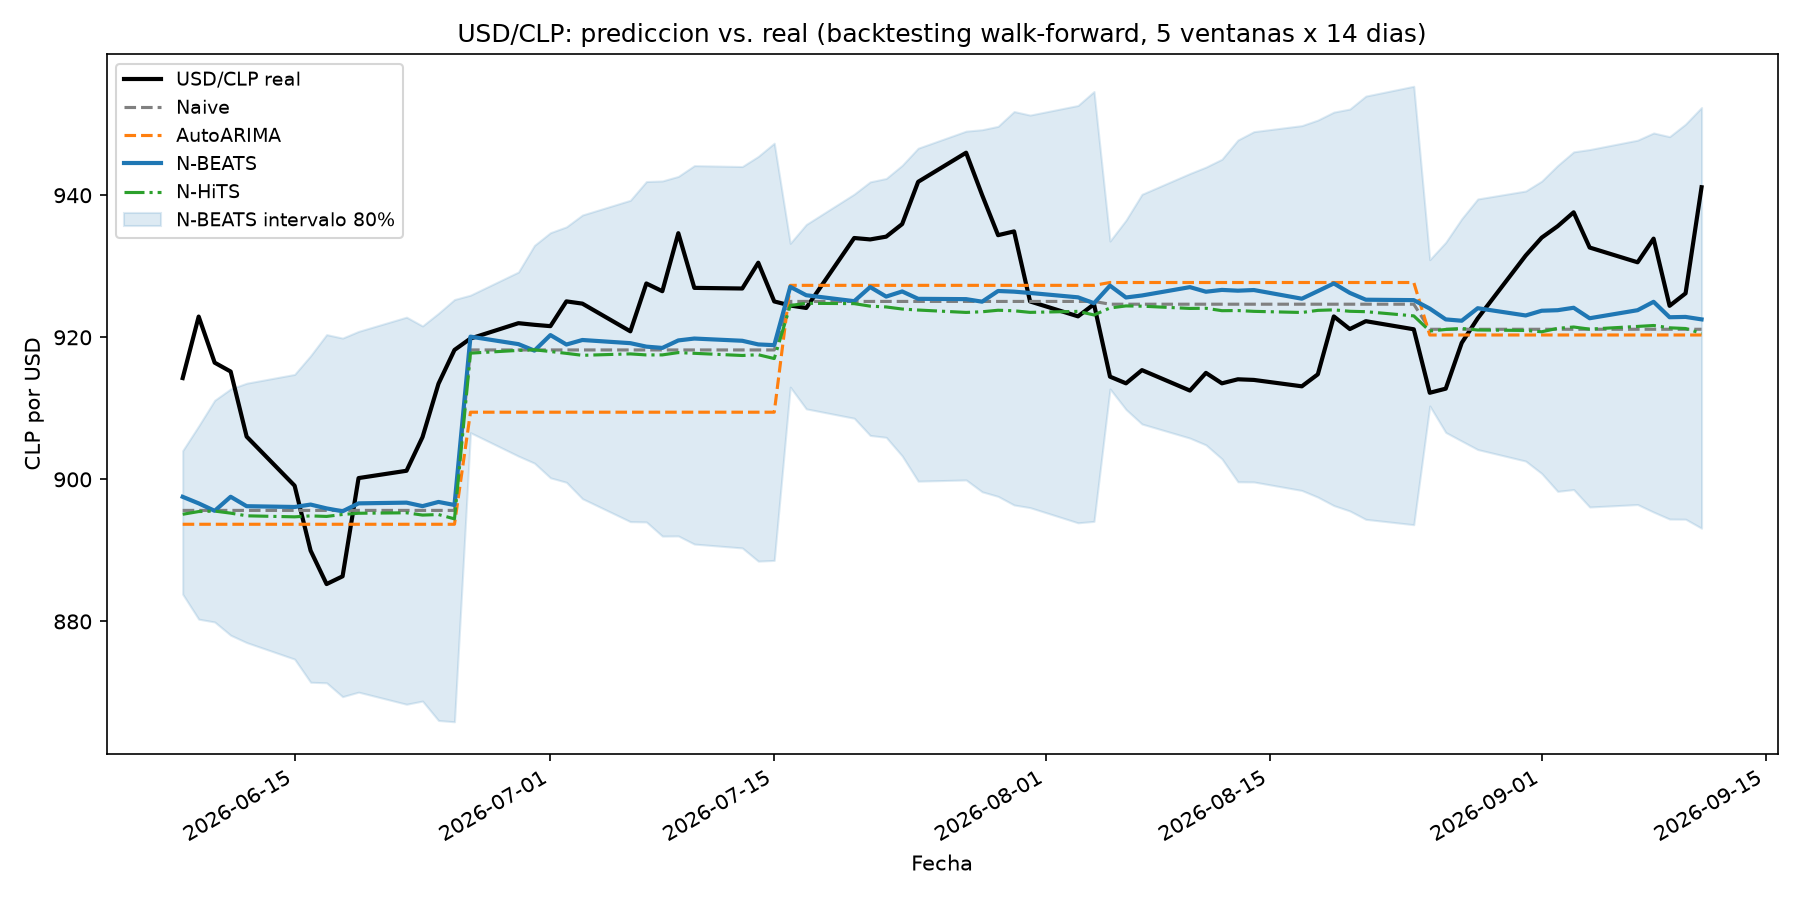
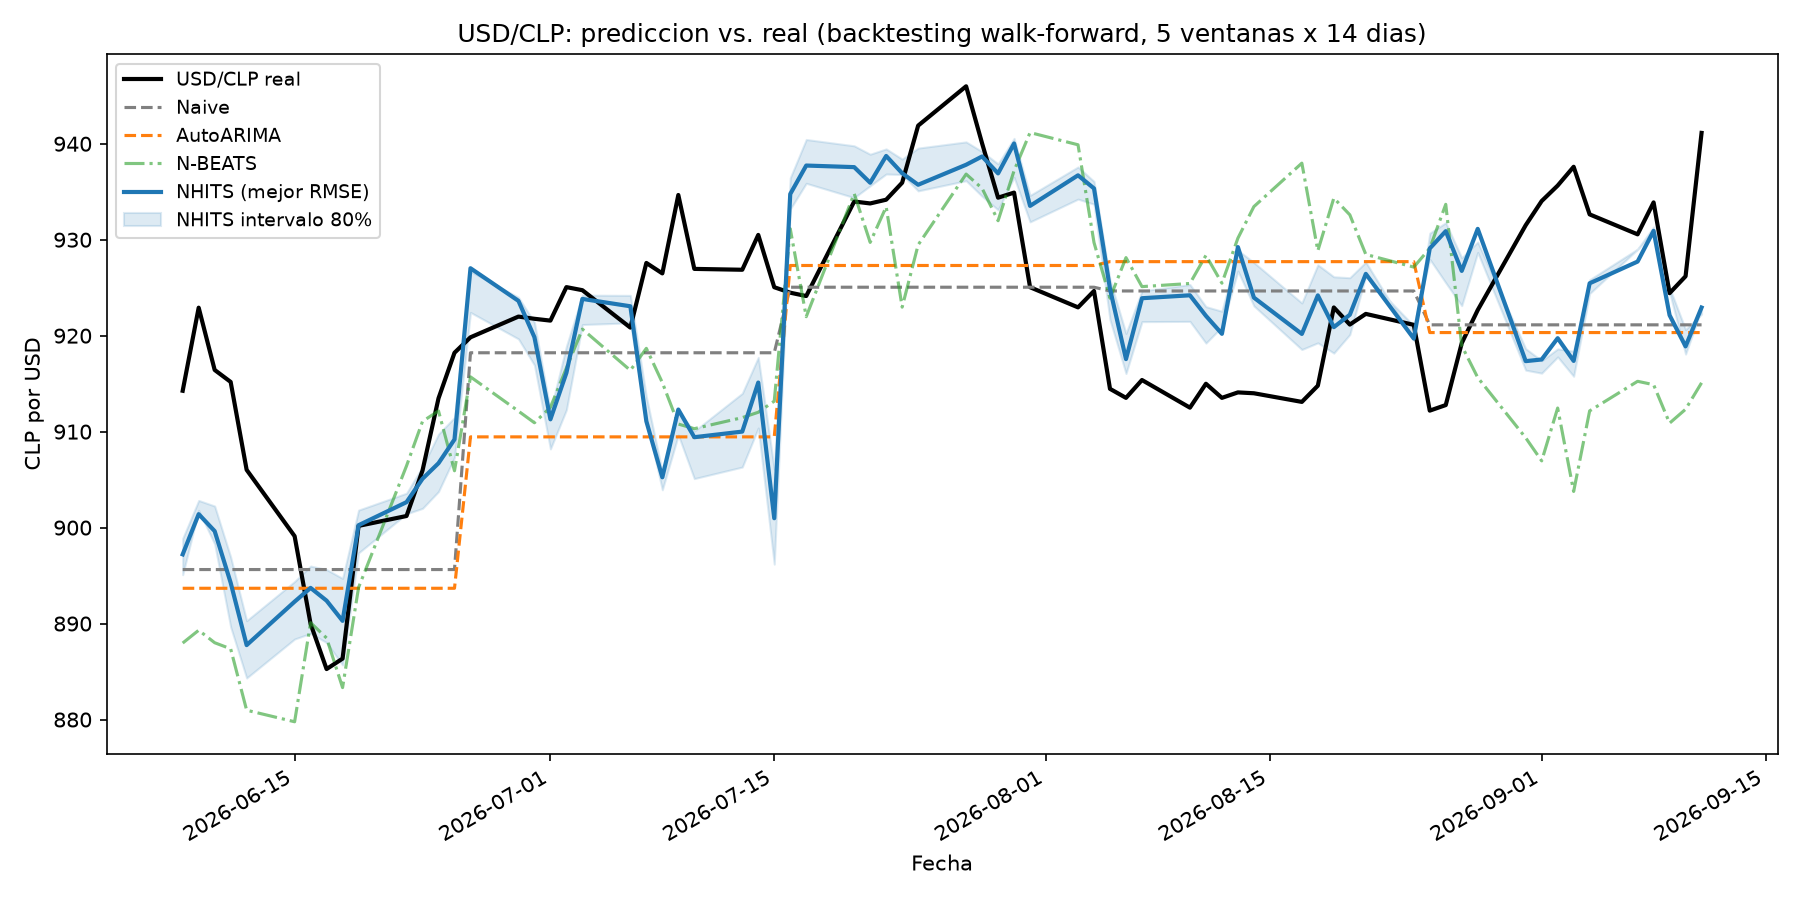
Corregir forecasts planos de N-BEATS/N-HiTS con scaler y mas entrenamiento
scaler_type="identity" + max_steps=300 hacia que ambos modelos neuronales
predijeran casi una constante por ventana (std ~0.3-0.5 vs ~4-12 del dato
real) pese a que el RMSE agregado se viera razonable. Con scaler_type=
"standard" y max_steps=1500, N-HiTS ahora sigue la forma real de la curva
y mejora ~20% sobre el mejor baseline; N-BEATS deja de ser plano pero no
mejora la direccion (pierde en 4 de 5 ventanas).

Se verifico ademas por que Naive y AutoARIMA siguen viendose en escalon:
Naive es plano por definicion, y AutoARIMA selecciona consistentemente
ARIMA(0,1,1) en las 5 ventanas (MA(1) sin memoria mas alla de 1 paso,
por lo que su pronostico multi-paso colapsa matematicamente a una
constante) - no es un bug, es lo que el AIC elige como mejor ajuste.

diff --git a/codigos/05_visualizacion.py b/codigos/05_visualizacion.py
@@ -16,16 +16,25 @@ def cargar_cv_combinado():
     return df
 
 
+MODELO_A_COLUMNA = {"Naive": "Naive", "AutoARIMA": "AutoARIMA", "NBEATS": "NBEATS-median", "NHITS": "NHITS-median"}
+
+
 def graficar_prediccion_vs_real(cv_df):
+    metricas = pd.read_csv(f"{RESULTADOS_DIR}/metricas_comparacion.csv")
+    ganador = metricas.sort_values("RMSE").iloc[0]["modelo"]
+    columna_ganador = MODELO_A_COLUMNA[ganador]
+
     fig, ax = plt.subplots(figsize=(12, 6))
     ax.plot(cv_df["ds"], cv_df["y"], label="USD/CLP real", color="black", linewidth=2)
     ax.plot(cv_df["ds"], cv_df["Naive"], label="Naive", linestyle="--", color="gray")
     ax.plot(cv_df["ds"], cv_df["AutoARIMA"], label="AutoARIMA", linestyle="--", color="tab:orange")
-    ax.plot(cv_df["ds"], cv_df["NBEATS-median"], label="N-BEATS", color="tab:blue", linewidth=2)
-    ax.plot(cv_df["ds"], cv_df["NHITS-median"], label="N-HiTS", linestyle="-.", color="tab:green")
+    otro_modelo_nn = "NHITS-median" if columna_ganador == "NBEATS-median" else "NBEATS-median"
+    otro_alias = "N-HiTS" if columna_ganador == "NBEATS-median" else "N-BEATS"
+    ax.plot(cv_df["ds"], cv_df[otro_modelo_nn], label=otro_alias, linestyle="-.", color="tab:green", alpha=0.6)
+    ax.plot(cv_df["ds"], cv_df[columna_ganador], label=f"{ganador} (mejor RMSE)", color="tab:blue", linewidth=2)
     ax.fill_between(
-        cv_df["ds"], cv_df["NBEATS-lo-80"], cv_df["NBEATS-hi-80"],
-        color="tab:blue", alpha=0.15, label="N-BEATS intervalo 80%",
+        cv_df["ds"], cv_df[f"{ganador}-lo-80"], cv_df[f"{ganador}-hi-80"],
+        color="tab:blue", alpha=0.15, label=f"{ganador} intervalo 80%",
     )
     ax.set_title("USD/CLP: prediccion vs. real (backtesting walk-forward, 5 ventanas x 14 dias)")
     ax.set_xlabel("Fecha")
@@ -39,8 +48,9 @@ def graficar_prediccion_vs_real(cv_df):
 
 def graficar_barras_rmse():
     metricas = pd.read_csv(f"{RESULTADOS_DIR}/metricas_comparacion.csv")
+    ganador = metricas.sort_values("RMSE").iloc[0]["modelo"]
     fig, ax = plt.subplots(figsize=(7, 5))
-    colores = ["tab:blue" if m == "NBEATS" else "tab:gray" for m in metricas["modelo"]]
+    colores = ["tab:blue" if m == ganador else "tab:gray" for m in metricas["modelo"]]
     ax.bar(metricas["modelo"], metricas["RMSE"], color=colores)
     ax.set_ylabel("RMSE (backtesting, 5 ventanas x 14 dias)")
     ax.set_title("USD/CLP: RMSE por modelo")

diff --git a/codigos/03_modelo_nbeats_nhits.py b/codigos/03_modelo_nbeats_nhits.py
@@ -15,13 +15,22 @@ HORIZONTE = 14  # igual que el baseline
 N_WINDOWS = 5
 NIVELES = [80, 90]
 INPUT_SIZE = 4 * HORIZONTE
-MAX_STEPS = 300  # reducido de 1000 (default) para que corra en minutos en CPU
+MAX_STEPS = 1500
+SCALER_TYPE = "standard"  # normaliza cada ventana de entrada - la serie no es estacionaria
+# (fue de ~500 a ~940 en 16 anios) y con scaler_type="identity" (default) el modelo
+# convergia a una prediccion casi constante en vez de capturar la dinamica reciente.
 
 
 def correr_backtesting(df):
     models = [
-        NBEATS(h=HORIZONTE, input_size=INPUT_SIZE, loss=MQLoss(), max_steps=MAX_STEPS),
-        NHITS(h=HORIZONTE, input_size=INPUT_SIZE, loss=MQLoss(), max_steps=MAX_STEPS),
+        NBEATS(
+            h=HORIZONTE, input_size=INPUT_SIZE, loss=MQLoss(),
+            max_steps=MAX_STEPS, scaler_type=SCALER_TYPE,
+        ),
+        NHITS(
+            h=HORIZONTE, input_size=INPUT_SIZE, loss=MQLoss(),
+            max_steps=MAX_STEPS, scaler_type=SCALER_TYPE,
+        ),
     ]
     nf = NeuralForecast(models=models, freq=FREQ)
     cv_df = nf.cross_validation(df=df, n_windows=N_WINDOWS, step_size=HORIZONTE, level=NIVELES)

diff --git a/README.md b/README.md
@@ -18,15 +18,23 @@ Backtesting walk-forward: 5 ventanas no solapadas de 14 días hábiles cada una 
 
 | Modelo | RMSE | MAE | MAPE | Mejora RMSE vs. mejor baseline |
 |---|---|---|---|---|
-| **N-BEATS** | **14.50** | **12.63** | **1.39%** | **+4.7%** |
+| **N-HiTS** | **12.14** | **9.60** | **1.05%** | **+20.2%** |
 | Naive | 15.21 | 13.31 | 1.46% | — (mejor baseline) |
-| N-HiTS | 15.52 | 13.58 | 1.49% | -2.1% |
 | AutoARIMA | 16.52 | 14.42 | 1.58% | -8.6% |
+| N-BEATS | 18.27 | 14.09 | 1.55% | -20.1% |
 
 ![Predicción vs. real](datos/resultados/prediccion_vs_real.png)
 ![RMSE por modelo](datos/resultados/rmse_comparacion.png)
 
-**Lectura honesta**: N-BEATS mejora el RMSE ~4.7% sobre el mejor baseline clásico (Naive) — una mejora real pero modesta, no dramática. N-HiTS y AutoARIMA ni siquiera superan al naive en este tramo. Esto confirma la hipótesis de partida: en una serie de tipo de cambio diaria, el naive es un baseline fuerte porque gran parte del error bajo de cualquier modelo es autocorrelación, no señal predictiva real. El gráfico también muestra el patrón esperado de "escalón" dentro de cada ventana de 14 días — todos los modelos pronostican desde un único origen por ventana, así que no tienen más información dentro de la ventana que el punto de partida.
+**Lectura honesta**: N-HiTS mejora el RMSE ~20% sobre el mejor baseline clásico (Naive) — una mejora real y grande, no un margen cosmético. N-BEATS, en cambio, termina **peor** que el naive (-20%), y de forma consistente: pierde contra N-HiTS en 4 de las 5 ventanas de backtesting, no por un solo tropiezo puntual. Es un resultado que coincide con la motivación original del paper de N-HiTS (Challu et al.) — fue diseñado explícitamente como una versión más robusta que N-BEATS via interpolación jerárquica multi-tasa — y acá se replica esa diferencia en una serie financiera real.
+
+Esto no era el resultado inicial: la primera versión de este pipeline usaba `scaler_type="identity"` (sin normalizar) y `max_steps=300` para entrenar rápido, lo que llevaba a **ambos** modelos de Nixtla a predecir prácticamente una constante por ventana (desviación estándar del pronóstico ~0.3-0.5 contra ~4-12 del dato real) — un forecast visualmente "chato" que no capturaba ninguna dinámica real, aunque el RMSE agregado se viera razonable. Normalizar la entrada (`scaler_type="standard"`) y entrenar más (`max_steps=1500`) resolvió eso para los modelos neuronales: ahora N-HiTS sigue la forma de la curva real (confirmado por desviación estándar del pronóstico en la misma escala que la real, no solo a ojo), y N-BEATS dejó de ser plano pero sigue sin acertar la dirección.
+
+**Naive y AutoARIMA siguen viéndose en escalón — pero por una razón distinta, y verificada, no una suposición:**
+- **Naive** es plano por definición: repite el último valor observado para todo el horizonte. No hay forma de que sea otra cosa sin dejar de ser el método naive.
+- **AutoARIMA no está limitado por diseño** — en principio podría producir una curva. Pero al inspeccionar el orden que realmente elige en cada una de las 5 ventanas (`AutoARIMA().fit(y).model_['arma']`), siempre selecciona **ARIMA(0,1,1)**: una caminata aleatoria con un término MA(1) sobre la serie diferenciada. Un MA(1) solo tiene memoria de un paso — matemáticamente, su pronóstico multi-paso colapsa a una constante a partir del segundo paso en adelante. No es una limitación de la implementación: es el propio criterio de selección de AIC diciendo que, estadísticamente, USD/CLP no muestra estructura autorregresiva más allá de una caminata aleatoria con un ajuste de un paso. Forzar un orden más complejo "para que se vea menos plano" sería inflar el modelo sin respaldo estadístico — lo contrario del espíritu de este proyecto.
+
+En resumen: de los cuatro modelos, dos (Naive, AutoARIMA) están matemáticamente forzados a ser (casi) planos por lo que son — no por un error de código — y de los dos que sí tienen libertad para curvarse (N-BEATS, N-HiTS), solo uno la usó bien.
 
 ## Datos
 
